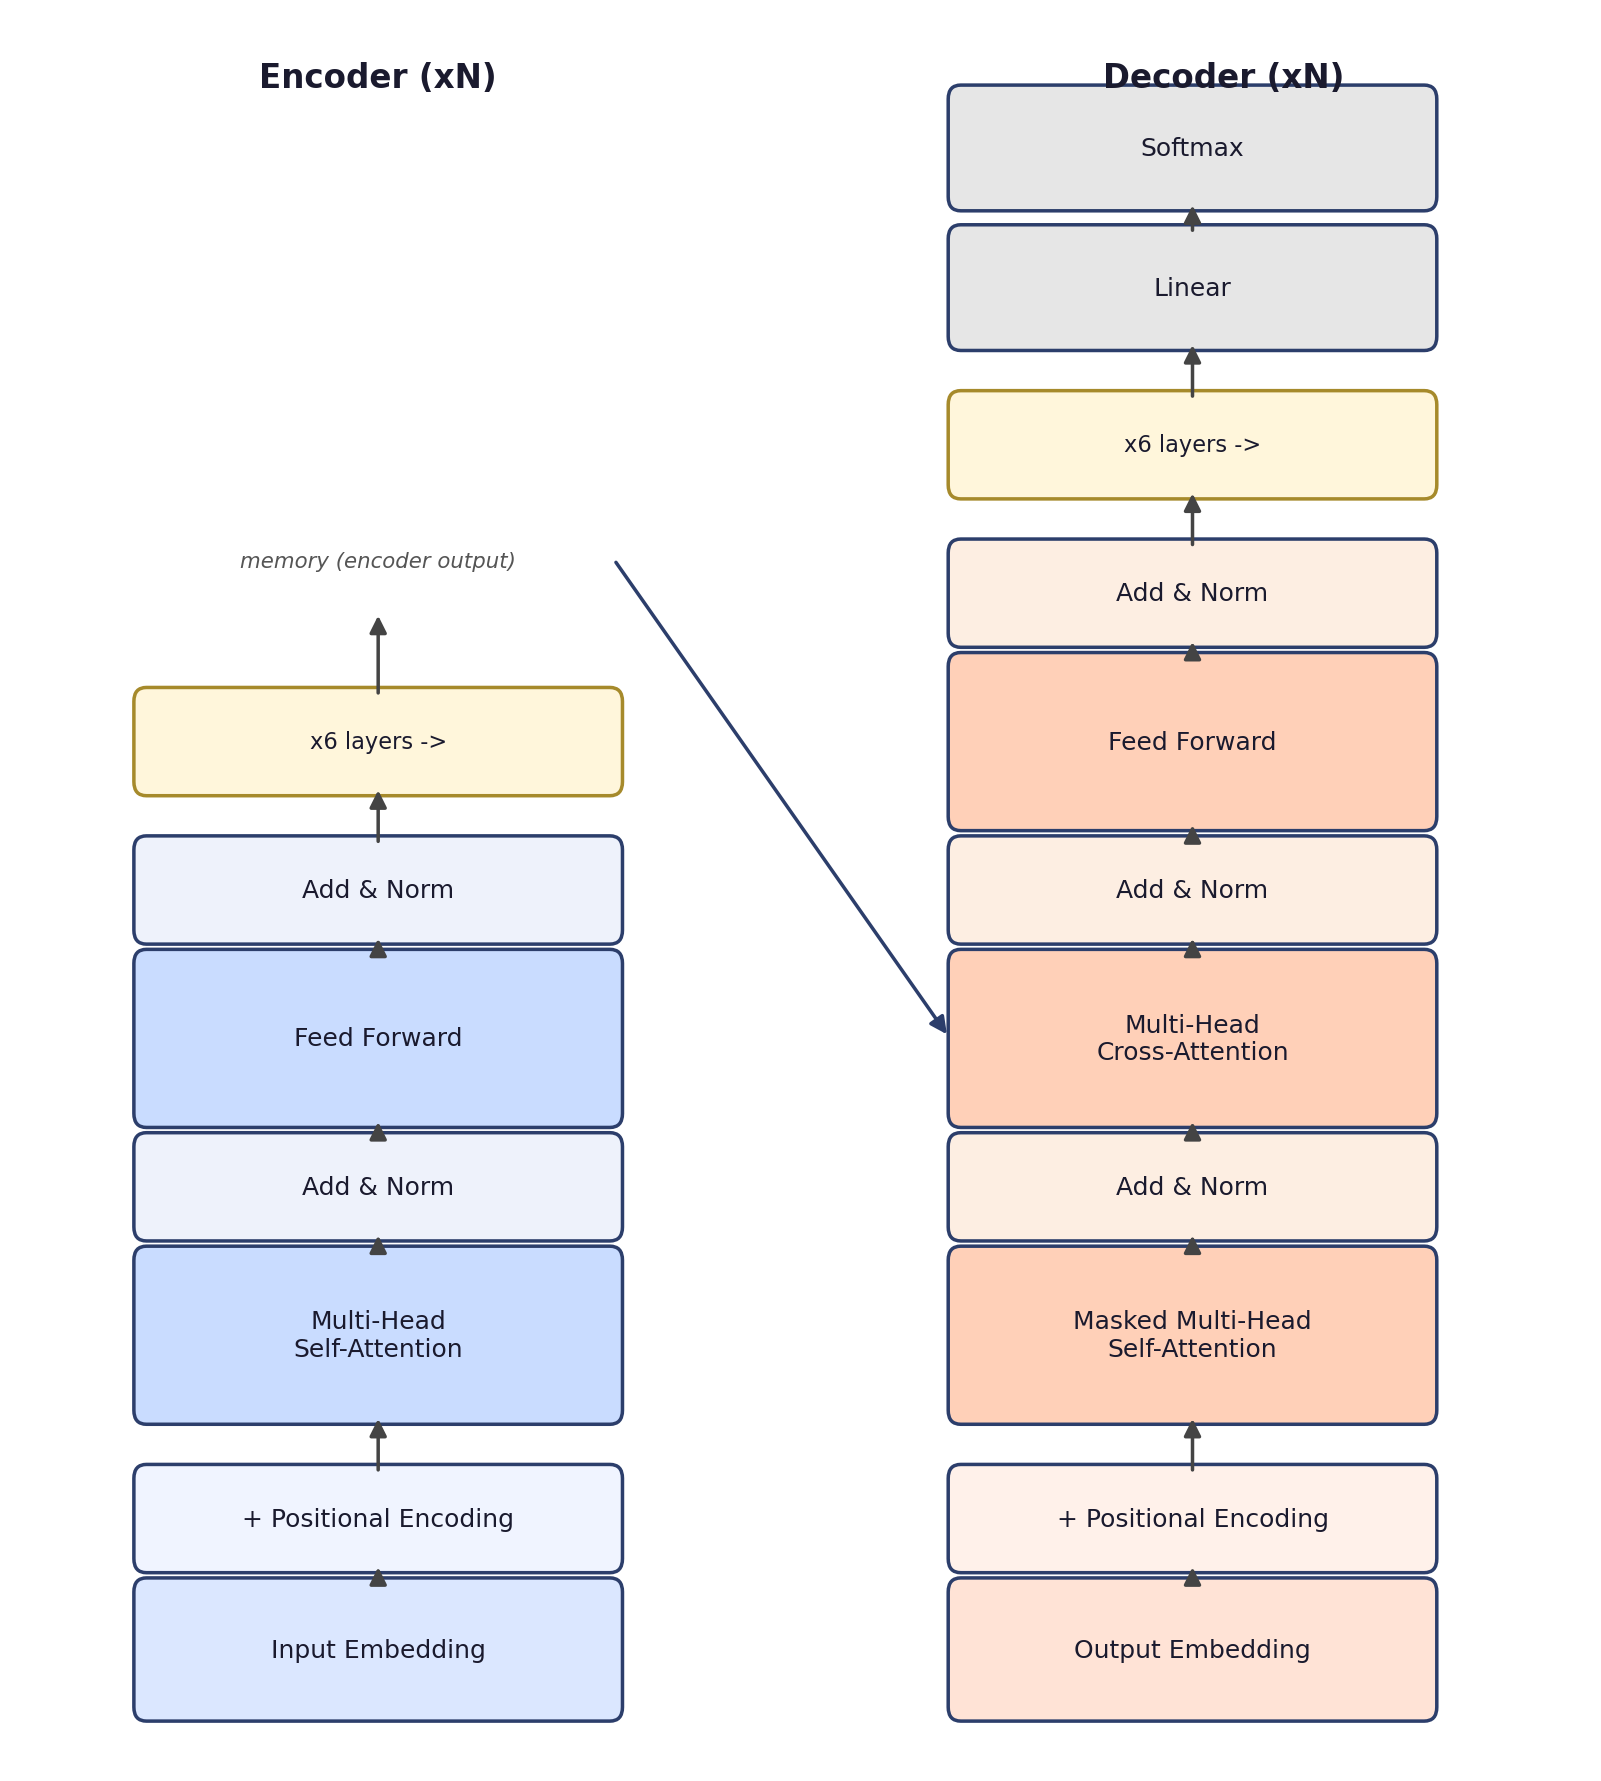
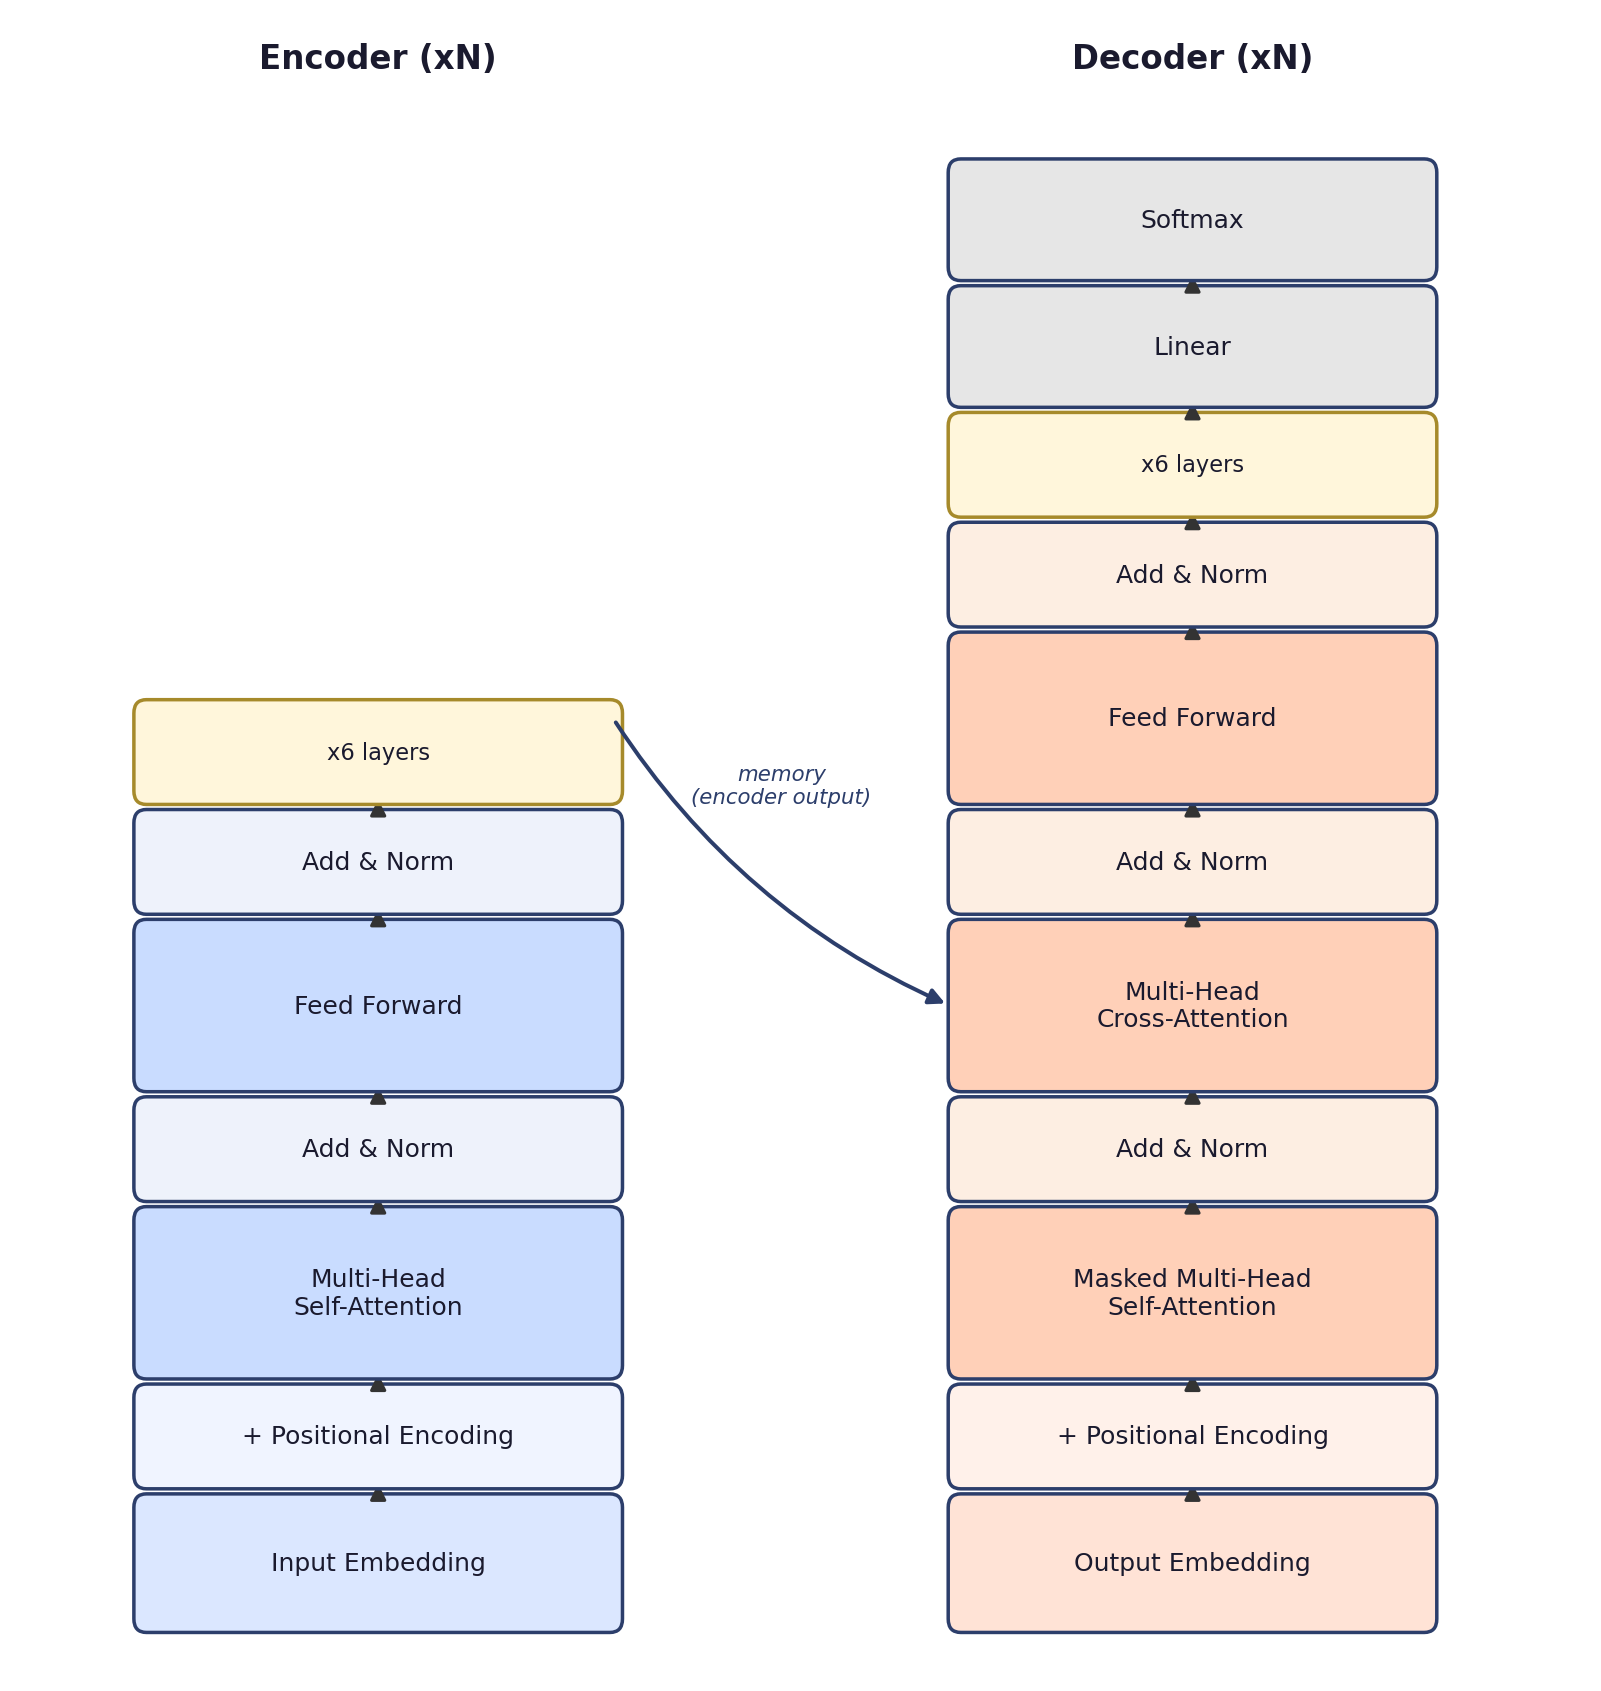
Regenerate architecture diagram with consistent arrows, link to paper's original figure

diff --git a/README.md b/README.md
@@ -19,6 +19,8 @@ Faithfully implements Section 3 of the paper:
 
 ![encoder-decoder diagram](docs/architecture.png)
 
+*Original architecture diagram: Figure 1 in [Vaswani et al., 2017](https://arxiv.org/abs/1706.03762)*
+
 ## Hyperparameters: paper vs. this project
 
 The **architecture code** matches the paper exactly. The **hyperparameters**
